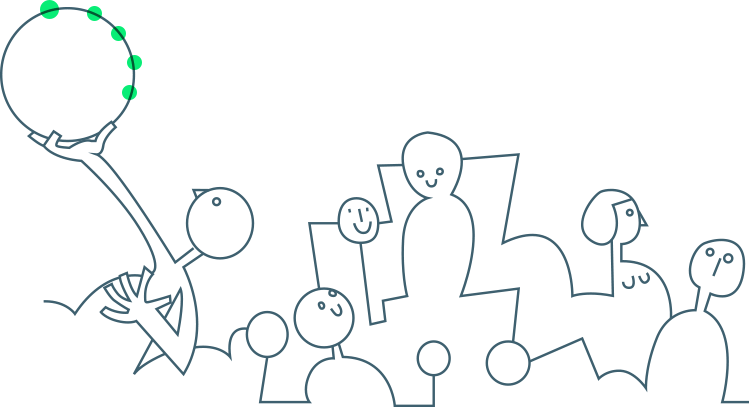
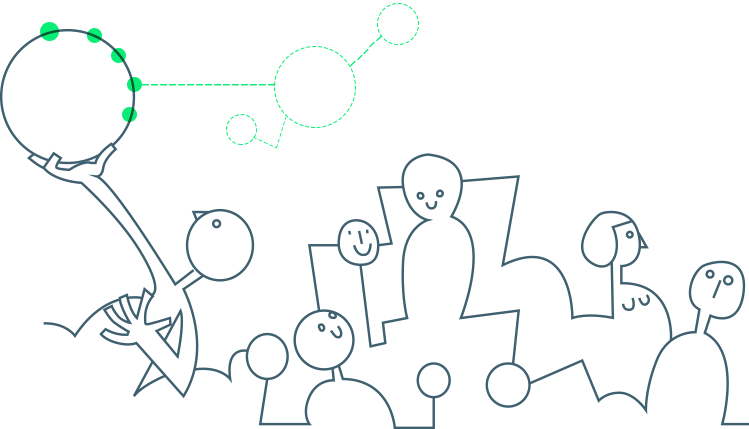
content of homepage is responsive

diff --git a/wp-content/themes/backfeed/assets/styles/common/_global.scss b/wp-content/themes/backfeed/assets/styles/common/_global.scss
@@ -1,20 +1,8 @@
-.main {
-  background-image: url('/wp-content/themes/backfeed/assets/images/main-illustration.png');
-  background-repeat: no-repeat;
-  background-position: -127px 217px;
-}
-
-section {
-  &.with-illustration {
-    .illustration {
-      @include make-sm-column(5);
-    }
-
-    .text {
-      @include make-sm-column(7);
-    }
-  }
-}
+//.main {
+//  background-image: url('/wp-content/themes/backfeed/assets/images/main-illustration.png');
+//  background-repeat: no-repeat;
+//  background-position: -127px 217px;
+//}
 
 aside.tagline {
   font-size: 22px;
@@ -29,6 +17,15 @@ aside.tagline {
   &:after {
     content: ' >';
     color: $brand-primary;
+  }
+
+  margin-top: 30px;
+  margin-bottom: 30px;
+
+  @media (min-width: $screen-md-min) {
+    margin-top: 0;
+    margin-bottom: 0;
+    position: relative;
   }
 }
 
@@ -50,102 +47,21 @@ ul {
   list-style-image: url('/wp-content/themes/backfeed/assets/images/list-style-image-sm.png')
 }
 
-#use-cases ul {
-  list-style-image: url('/wp-content/themes/backfeed/assets/images/list-style-image.png')
-}
-
-.use-cases-case {
-  @include make-sm-column(6);
-  padding-left: 0;
-}
-
-.use-cases-title {
-  font-size: 18px;
-  font-variant: small-caps;
-  margin-top: 0;
-  margin-bottom: 0;
-}
-
-.team-members {
-  @include make-row();
-}
-
-.team-member {
-  @include make-sm-column(3);
-  margin-bottom: 70px;
-}
-
-.team-member-avatar {
-  width: 100px;
-}
-
-.team-member-name {
-  font-size: 18px;
-  font-variant: small-caps;
-}
-
-.team-member-role {
-  font-size: 14px;
-}
-
 .ellipsis {
   color: #f60b6e;
   font-size: 24px;
   font-weight: 600;
+  line-height: 0.2;
 
   &:after {
     content: "\2026";
   }
 }
 
-.social-icons {
-  display: flex;
-  justify-content: space-around;
-  margin-top: 10px;
-}
-
-.partners {
-  display: flex;
-  align-items: center;
-  justify-content: space-between;
-  flex-wrap: wrap;
-}
-
-#about {
-  margin-top: 145px;
-  margin-bottom: 125px;
-}
-
-#vision {
-  margin-top: 155px;
-  margin-bottom: 65px;
-}
-
-#use-cases-image {
-  margin-top: 25px;
-}
-
-#use-cases {
-  margin-bottom: 95px;
-  &>h2 {
-    margin-bottom: 50px;
-  }
-}
-
-#technology {
-  margin-top: 100px;
-  margin-bottom: 80px;
-}
-
-#team {
-  &>h2 {
-    margin-bottom: 60px;
-  }
-}
-
 /* entire container, keeps perspective */
 .flip-container {
   perspective: 1000;
+  @include center-block;
 }
 /* flip the pane when hovered */
 .flip-container:hover .flipper, .flip-container.hover .flipper {

diff --git a/wp-content/themes/backfeed/assets/styles/pages/_front-page.scss b/wp-content/themes/backfeed/assets/styles/pages/_front-page.scss
@@ -1,0 +1,145 @@
+#use-cases ul {
+  list-style-image: url('/wp-content/themes/backfeed/assets/images/list-style-image.png')
+}
+
+.use-cases-case {
+  @include make-sm-column(6);
+  padding-left: 0;
+}
+
+.use-cases-title {
+  font-size: 18px;
+  font-variant: small-caps;
+  margin-top: 0;
+  margin-bottom: 0;
+}
+
+.team-members {
+  @include make-row();
+}
+
+.team-member {
+  @include make-xs-column(6);
+  @include make-sm-column(3);
+  margin-bottom: 20px;
+  //margin-bottom: 70px;
+}
+
+.team-member-avatar {
+  width: 100px;
+}
+
+.team-member-name {
+  font-size: 18px;
+  font-variant: small-caps;
+}
+
+.team-member-role {
+  font-size: 14px;
+}
+
+.social-icons {
+  display: flex;
+  justify-content: space-around;
+  margin-top: 10px;
+}
+
+.partners {
+  display: flex;
+  align-items: center;
+  justify-content: space-around;
+  flex-wrap: wrap;
+}
+
+#technology  {
+    .illustration img {
+      position: absolute;
+      opacity: .3;
+      width: 360px;
+      left: 50%;
+      top: 50%;
+      margin-left: -180px;
+      margin-top: -180px;
+
+      @media (min-width: $screen-md-min) {
+        opacity: 0.5;
+        margin-left: -140px;
+        margin-top: -220px;
+      }
+    }
+}
+
+.connector {
+  position: absolute;
+  display: block;
+}
+
+@media (min-width: $screen-md-min) {
+  #about {
+    margin-top: 145px;
+    margin-bottom: 45px;
+  }
+
+  #connector-a {
+    left: 14%;
+    top: -200px;
+  }
+
+  #vision {
+    margin-top: 95px;
+    margin-bottom: 60px;
+  }
+
+  #connector-b {
+    bottom: -20px;
+  }
+
+  #use-cases-image {
+    margin-top: -2px;
+  }
+
+  #use-cases {
+    margin-bottom: 95px;
+    &>h2 {
+      margin-bottom: 50px;
+    }
+  }
+
+  #technology {
+    margin-top: 100px;
+    margin-bottom: 80px;
+  }
+
+  #team {
+    &>h2 {
+      margin-bottom: 60px;
+    }
+  }
+}
+
+@media (min-width: $screen-lg-min) {
+  #about {
+    margin-bottom: 95px;
+  }
+
+  #connector-a {
+    left: 15%;
+    top: -204px;
+  }
+
+  #vision {
+    margin-top: 90px;
+    margin-bottom: 60px;
+  }
+
+  #connector-b {
+    left: 9.2%;
+    bottom: -79px;
+  }
+
+  #use-cases-image {
+    margin-top: 55px;
+  }
+}
+
+

diff --git a/wp-content/themes/backfeed/assets/styles/components/_grid.scss b/wp-content/themes/backfeed/assets/styles/components/_grid.scss
@@ -8,3 +8,15 @@
 .sidebar {
   @include make-sm-column($sidebar-sm-columns);
 }
+
+section {
+  &.with-illustration {
+    .illustration {
+      @include make-md-column(5);
+    }
+
+    .text {
+      @include make-md-column(7);
+    }
+  }
+}

diff --git a/wp-content/themes/backfeed/assets/styles/main.scss b/wp-content/themes/backfeed/assets/styles/main.scss
@@ -16,3 +16,4 @@
 @import "layouts/_footer";
 @import "layouts/_pages";
 @import "layouts/_posts";
+@import "pages/_front-page";

diff --git a/wp-content/themes/backfeed/front-page.php b/wp-content/themes/backfeed/front-page.php
@@ -2,7 +2,7 @@
 
     <section id="about" class="row with-illustration">
         <div class="illustration">
-            <img src="/wp-content/themes/backfeed/assets/images/compass.png" alt="Compass">
+            <img class="img-responsive center-block" src="/wp-content/themes/backfeed/assets/images/compass.png" alt="Compass">
         </div>
         <div class="text">
             <h2>About Backfeed</h2>
@@ -12,11 +12,13 @@
         </div>
     </section>
 
-    <aside class="tagline">Backfeed, helping the transition into more agile and decentralized organisations</aside>
+    <aside class="tagline">Backfeed, helping the transition into more agile and decentralized organisations
+        <img class="connector hidden-xs hidden-sm" id="connector-a" src="/wp-content/themes/backfeed/assets/images/connector-a.png" />
+    </aside>
 
     <section id="vision" class="row with-illustration">
         <div class="illustration">
-            <img src="/wp-content/themes/backfeed/assets/images/woman_with_idea.png" alt="Woman with Idea">
+            <img class="img-responsive center-block" src="/wp-content/themes/backfeed/assets/images/woman_with_idea.png" alt="Woman with Idea">
         </div>
         <div class="text">
             <h2>Our Vision</h2>
@@ -28,9 +30,11 @@
         </div>
     </section>
 
-    <aside class="tagline">Backfeed, unlocking the potential of the collaborative sharing economy</aside>
+    <aside class="tagline">Backfeed, unlocking the potential of the collaborative sharing economy
+        <img class="connector hidden-xs hidden-sm" id="connector-b" src="/wp-content/themes/backfeed/assets/images/connector-b.png" />
+    </aside>
 
-    <img id="use-cases-image" class="center-block" src="/wp-content/themes/backfeed/assets/images/people_using.png" alt="People Using" />
+    <img id="use-cases-image" class="img-responsive center-block" src="/wp-content/themes/backfeed/assets/images/people_using.png" alt="People Using" />
 
     <section id="use-cases" class="row only-text">
         <h2>Use Cases</h2>
@@ -60,7 +64,7 @@
 
     <section id="technology" class="row with-illustration">
         <div class="illustration">
-            <img src="/wp-content/themes/backfeed/assets/images/technology.png" alt="Technology">
+            <img class="img-responsive center-block" src="/wp-content/themes/backfeed/assets/images/technology.png" alt="Technology">
         </div>
         <div class="text">
             <h2>Technology</h2>
@@ -126,10 +130,10 @@
     <section id="partners" class="row">
         <h2>Partners</h2>
         <div class="partners">
-            <img src="/wp-content/themes/backfeed/assets/images/partners/partner1.png" alt="">
-            <img src="/wp-content/themes/backfeed/assets/images/partners/partner2.png" alt="">
-            <img src="/wp-content/themes/backfeed/assets/images/partners/partner3.png" alt="">
-            <img src="/wp-content/themes/backfeed/assets/images/partners/partner4.png" alt="">
+            <a href="#"><img src="/wp-content/themes/backfeed/assets/images/partners/partner1.png" alt=""></a>
+            <a href="#"><img src="/wp-content/themes/backfeed/assets/images/partners/partner2.png" alt=""></a>
+            <a href="#"><img src="/wp-content/themes/backfeed/assets/images/partners/partner3.png" alt=""></a>
+            <a href="#"><img src="/wp-content/themes/backfeed/assets/images/partners/partner4.png" alt=""></a>
         </div>
     </section>
 </div>
